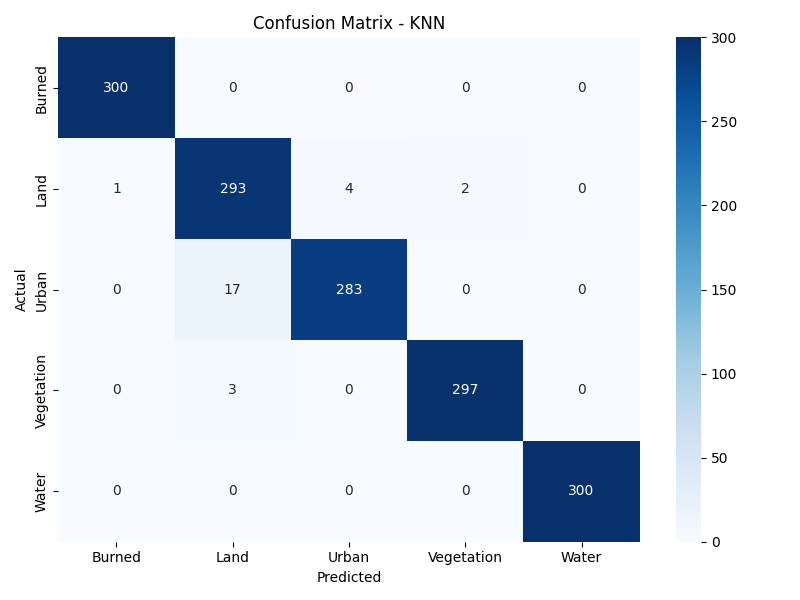
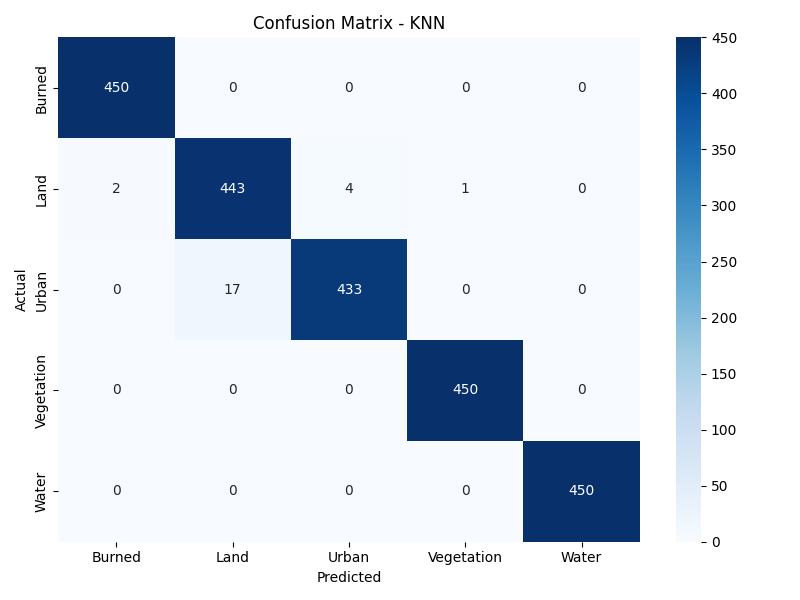
Resultados

diff --git a/src/train_models.py b/src/train_models.py
@@ -95,7 +95,7 @@ X_scaled = scaler.fit_transform(X)
 X_train, X_test, y_train, y_test = train_test_split(
     X_scaled,
     y,
-    test_size=0.2,
+    test_size=0.3,
     random_state=42,
     stratify=y,
 )
@@ -111,7 +111,10 @@ models = {
     # ======================================
 
     "DecisionTree": DecisionTreeClassifier(
-        max_depth=10
+        max_depth=15,
+        min_samples_split=5,
+        min_samples_leaf=2,
+        random_state=42,
     ),
 
     # ======================================
@@ -119,7 +122,10 @@ models = {
     # ======================================
 
     "SVM": SVC(
-        kernel="rbf"
+        kernel="rbf",
+        C=10,
+        gamma="scale",
+        probability=False,
     ),
 
     # ======================================
@@ -127,8 +133,13 @@ models = {
     # ======================================
 
     "ANN": MLPClassifier(
-        hidden_layer_sizes=(100,),
-        max_iter=500,
+        hidden_layer_sizes=(150, 100, 50),
+        activation="relu",
+        solver="adam",
+        alpha=0.0001,
+        learning_rate="adaptive",
+        max_iter=2000,
+        random_state=42,
     ),
 
     # ======================================
@@ -136,14 +147,19 @@ models = {
     # ======================================
 
     "KNN": KNeighborsClassifier(
-        n_neighbors=5
+        n_neighbors=7,
+        weights="distance",
+        metric="minkowski",
+        p=2,
     ),
 
     # ======================================
     # NAIVE BAYES
     # ======================================
 
-    "NaiveBayes": GaussianNB(),
+    "NaiveBayes": GaussianNB(
+        var_smoothing=1e-8
+    ),
 
 }
 
